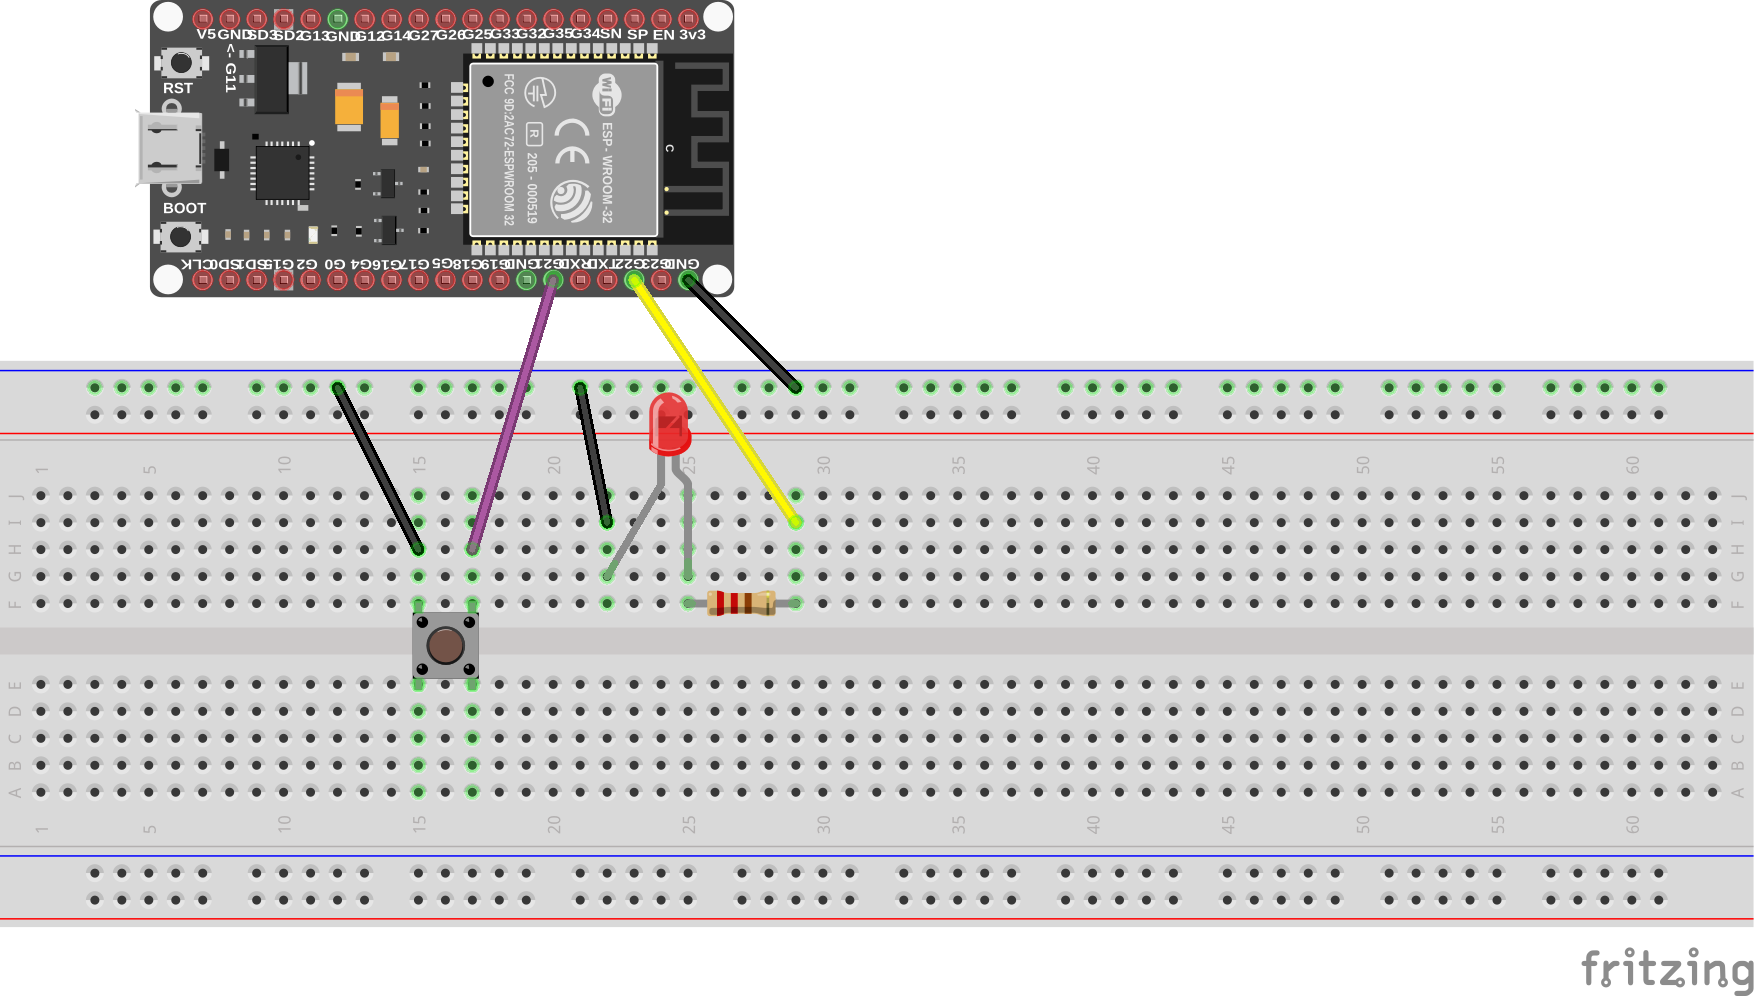
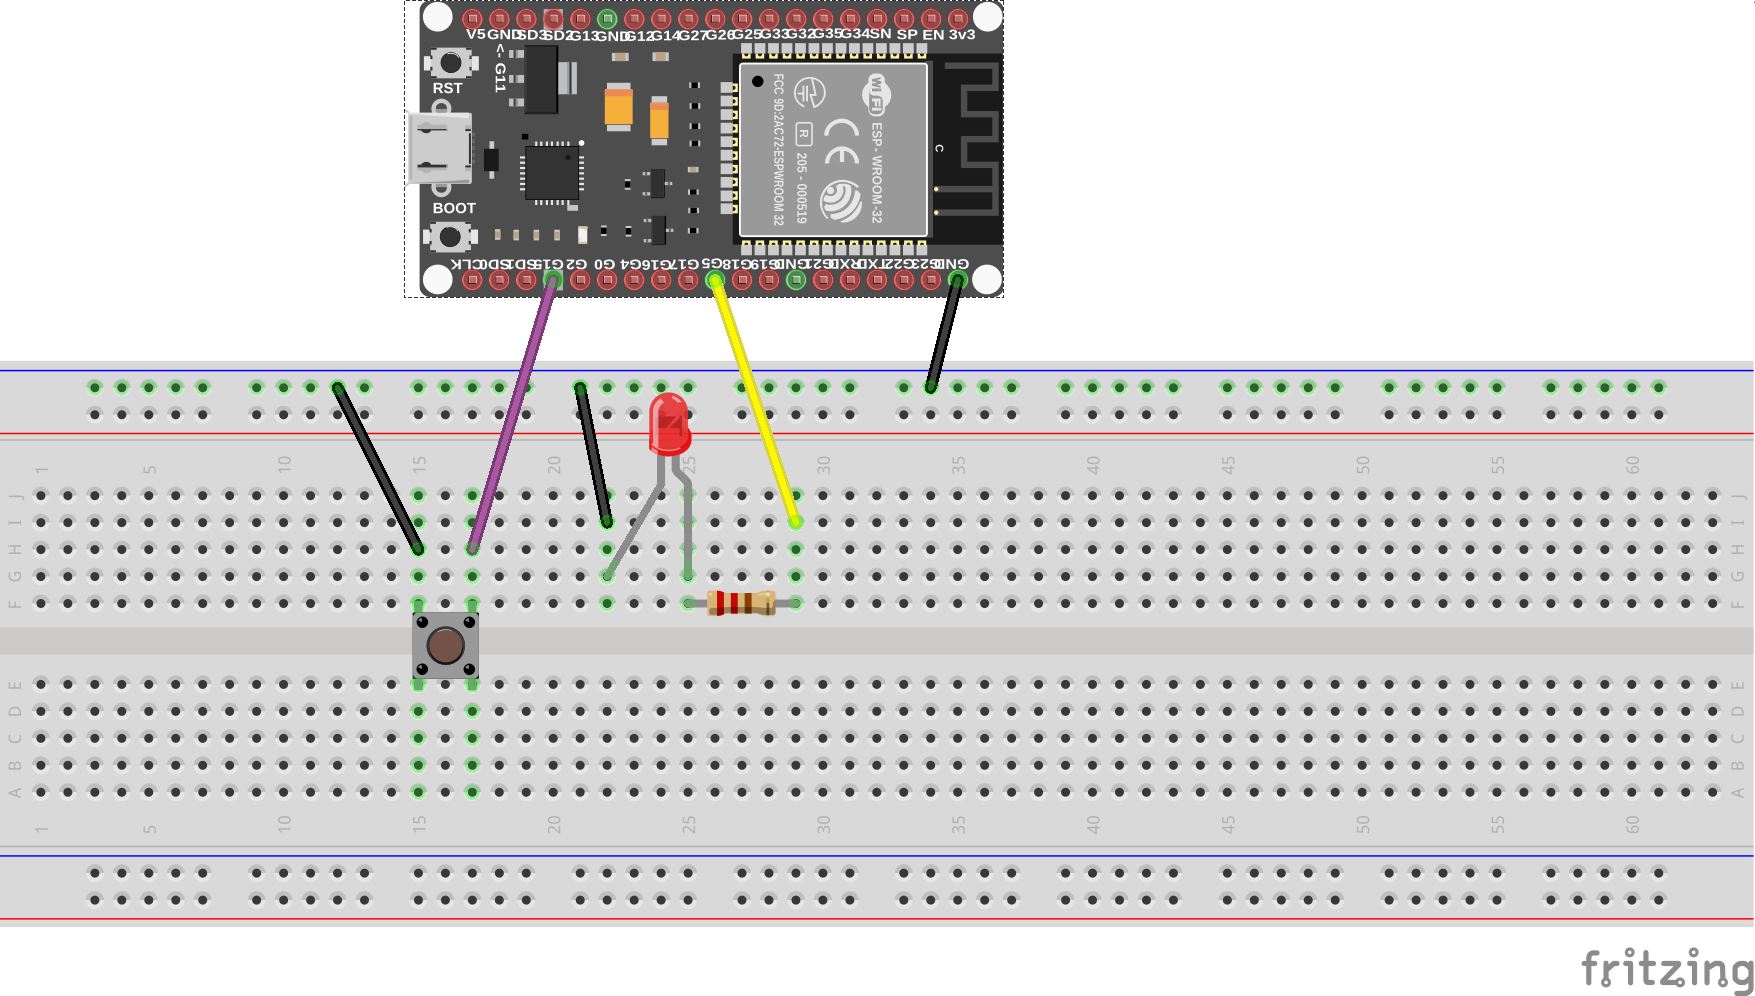
edit pin numbers in code and images

Changed region(s): [[0.0615, 0.0, 0.5846, 0.5291]]

diff --git a/02-button/button.py b/02-button/button.py
@@ -9,10 +9,10 @@ from machine import Pin
 from utime import sleep
 
 # create output pin on GPIO22
-led = Pin(22, Pin.OUT)    
+led = Pin(5, Pin.OUT)    
 
 # create input pin on GPIO21 and enable internal pull-up resistor
-button = Pin(21, Pin.IN, Pin.PULL_UP)
+button = Pin(15, Pin.IN, Pin.PULL_UP)
 
 while True:
     # read button state and store the value

diff --git a/01-blink/blink.py b/01-blink/blink.py
@@ -2,7 +2,7 @@ from utime import sleep
 from machine import Pin
 
 # change pin number for your own setup
-led = Pin(22,Pin.OUT)
+led = Pin(5,Pin.OUT)
 
 while True:
     led.value(1)
